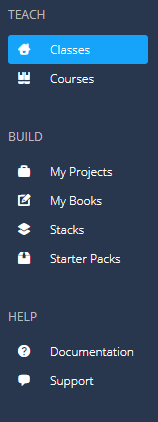
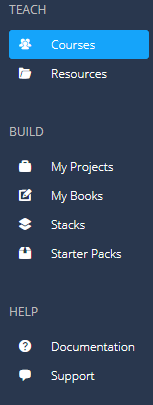
update navigation

diff --git a/docs/dashboard/navigation.md b/docs/dashboard/navigation.md
@@ -10,12 +10,11 @@ Here are the main options from the dashboard.
 
 ![dashboard](/img/dashboard.png)
 
-- **Classes**: this is where you administer classes and assign projects and courses to students. [About classes](/courses/classes/).
-- **Courses**: courses are teaching materials that are nicely organized for repeated teaching of content from semester to semester (or term to term, year to year). Course Units can be single Codio projects or a mapping to a part of a Codio book. [About courses](/courses/coursemanagement/).
+- **Courses**: this is where you administer classes and assign projects and courses to students. [About classes](/courses/classes/). And also where you can create your own content that are nicely organized for repeated teaching of content from semester to semester (or term to term, year to year). Course Assignments can be single Codio projects or a mapping to a part of a Codio book. [About courses](/courses/coursemanagement/).
 - **My Projects**: a project is a cloud based server with the Codio IDE attached. It is a great place to experiment. You can create as many as you like and configure your server (box) from the command line exactly as you would with any other server. [About projects](/project/projects/#what-is-a-project).
-- **My Books**: books lets you build a complete book, with chapters, sections and pages that can be nested to any depth to form a table of contents and associated content that mirrors a normal book structure. Parts of a book can then be mapped to course units for class assignments. [About books](/books/introduction/#introduction)
+- **My Books**: books lets you build a complete book, with chapters, sections and pages that can be nested to any depth to form a table of contents and associated content that mirrors a normal book structure. Parts of a book can then be mapped to course units for class assignments. [About books](/project/books/)
 - **Stacks**: Stacks are templated snapshots of a project's software configuration and are a very important and powerful feature of Codio. If you are assigning content to classes of students, it is very important you have a full understanding of stacks. [About stacks](/project/stacks/#what-is-a-stack).
 - **Starter Packs**: a Starter Pack is a templated snapshot of a project's code workspace. Additionally a stack is specified. The result is an instantly startable snapshot of a fully configured environment. [About starter packs](/project/packs/).
-- **Documentation**: a link to the general document. [Documentation link](/docs).
+- **Documentation**: a link to the general document.
 - **Support**: this is our integrated support environment. If you need assistance from us, click here to leave us a detailed message and we will get back to you quickly.
 

diff --git a/docs/students.md b/docs/students.md
@@ -30,6 +30,7 @@ To access your course after this point, log in to your Codio account and go to t
 The **Courses** area is where you can see the modules and assignments that have been assigned to you. Pinned assignments will be displayed more prominently at the top of the page.
 
 Below is an example of a student’s **Courses* area:
+
 ![Student Dashboard](/img/what_students_do/studentdashboard.png)
 
 Using the **Courses** area, you can easily re-open the assignment you were last working on, or start/open any of the other assignments that have been assigned to you. You  start or open assignments using the navigation buttons displayed.
